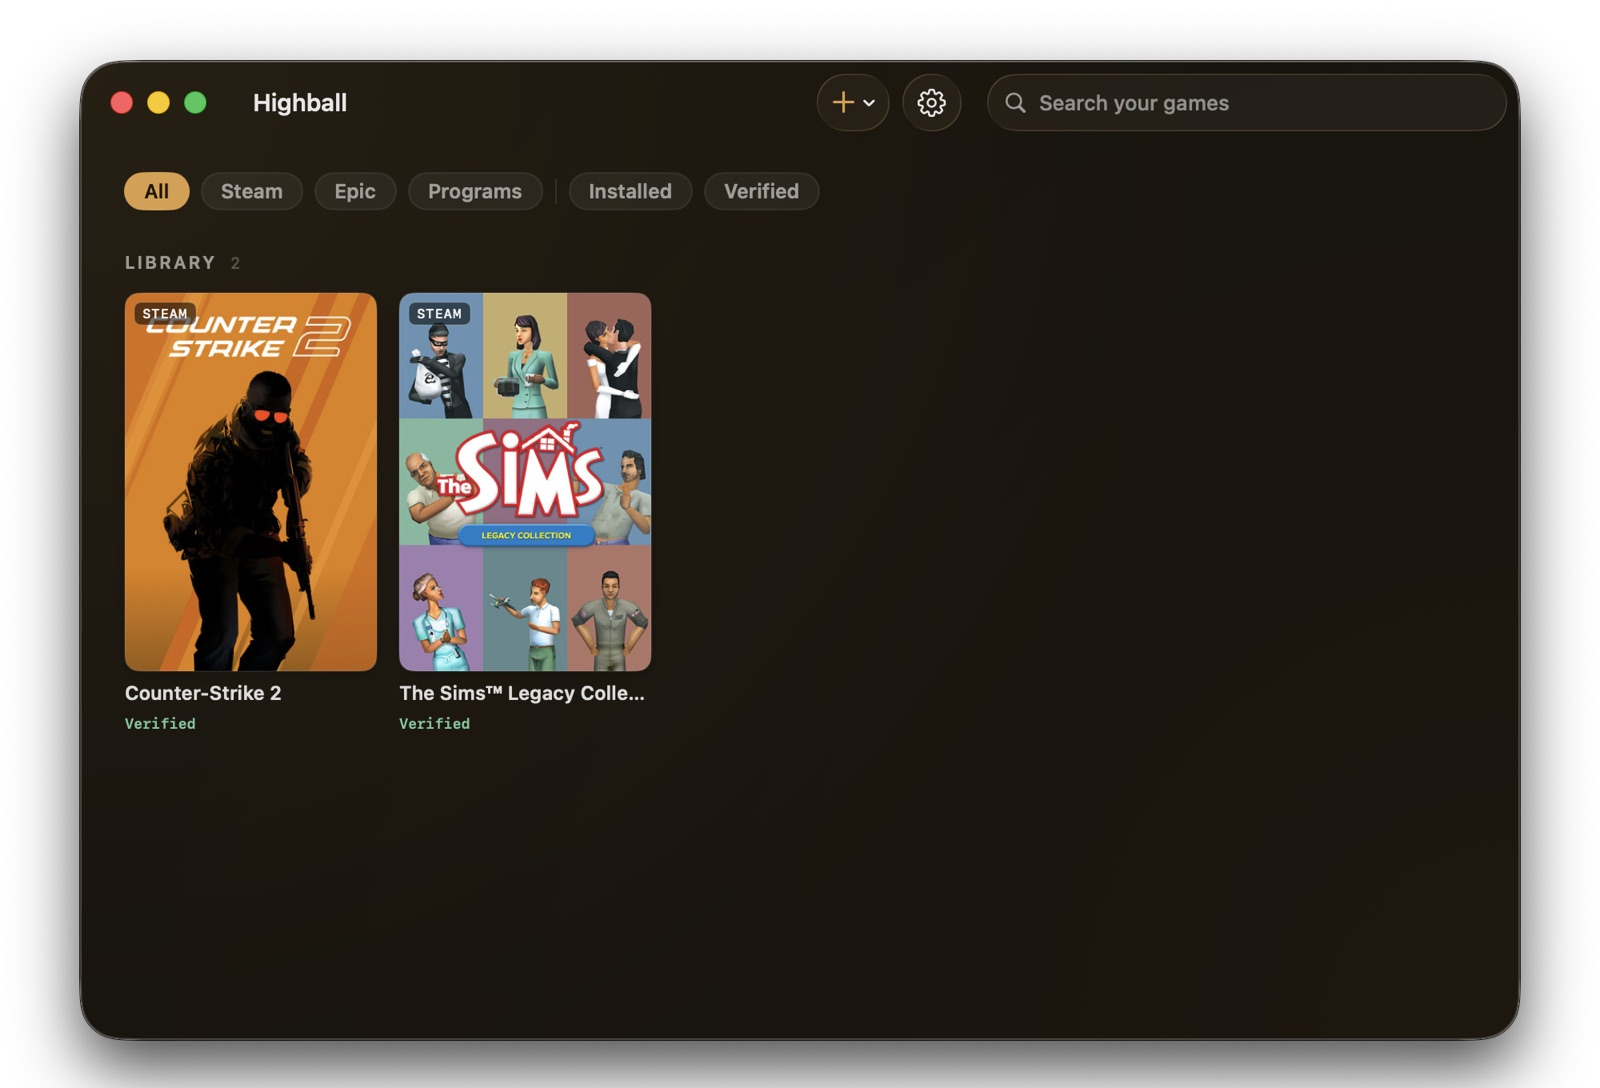
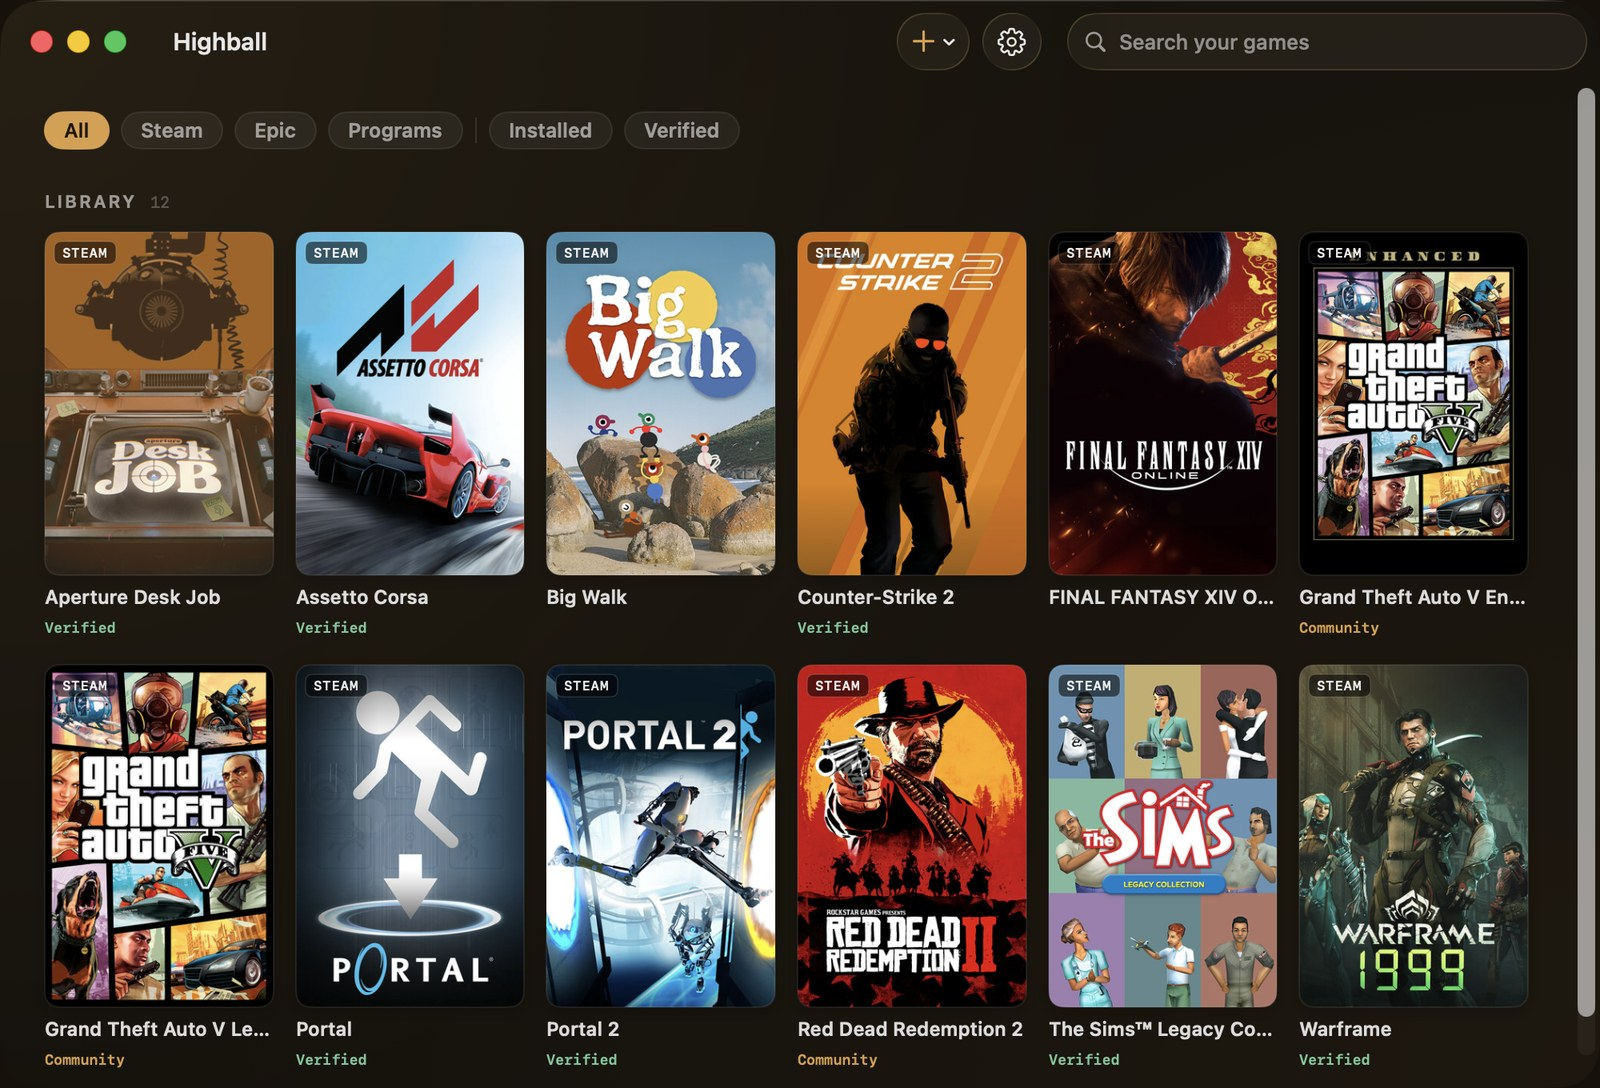
Hero: the library with twelve games, flattened onto the site's own background (no white frame)

diff --git a/build.py b/build.py
@@ -617,7 +617,7 @@ def landing_page(data, base, counts, derived_count):
     First run takes about 20 minutes while the engine downloads and Steam updates itself. After that, launching is instant.</p>
   <div style="margin:3rem auto 0;max-width:880px">
     <img src="/static/app.jpg" width="1600" height="1088" fetchpriority="high"
-         alt="Highball's Library: one cover grid with source badges and verified verdicts from the open database"
+         alt="Highball’s Library: twelve games in one cover grid, each with its source badge and the open database’s verdict"
          style="border-radius:10px;border:1px solid var(--line);display:block">
   </div>
 </header>
